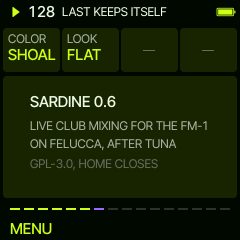
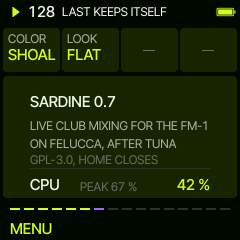
MENU: the CPU (the audio's load, its peak, voices shed), as Makohai's SETUP
Claude-Session: https://claude.ai/code/session_01VgesZgNNDFiPGvKyDTZVUK

Changed region(s): [[0.1167, 0.6417, 0.875, 0.8167], [0.3208, 0.7583, 0.5833, 0.8167], [0.4375, 0.3792, 0.4958, 0.4667]]

diff --git a/firmware/src/sa_ui.c b/firmware/src/sa_ui.c
@@ -909,11 +909,24 @@ static void sv_panel_sets(sa_ui *u)
 
 static void sv_panel_menu(sa_ui *u)
 {
-    (void)u;
     cv_text_on(30, 16, &AF_M, "SARDINE " SA_VERSION, T_TEXT, T_SURF);
     cv_text_on(30, 42, &AF_S, "LIVE CLUB MIXING FOR THE FM-1", T_MID, T_SURF);
     cv_text_on(30, 60, &AF_S, "ON FELUCCA, AFTER TUNA", T_MID, T_SURF);
-    cv_text_on(30, 80, &AF_S, "GPL-3.0, HOME CLOSES", T_DIM, T_SURF);
+    cv_text_on(30, 76, &AF_S, "GPL-3.0, HOME CLOSES", T_DIM, T_SURF);
+    {   /* the CPU: the audio's load, its average over a tenth of a second, and its worst since the start */
+        char t[24], a[8];
+        cv_rect(30, 92, 180, 1, T_LINE);
+        cv_text_on(30, 99, &AF_M, "CPU", T_TEXT, T_SURF);
+        sv_fmt_int(t, sv_clampi(u->cpu, 0, 100));
+        sv_cat(t, " %", sizeof t);
+        cv_text_r(210, 99, &AF_M, t, u->cpu >= 85 ? T_ACCENT : T_THEME, T_SURF);
+        sv_cpy(t, "PEAK ", sizeof t);
+        sv_fmt_int(a, sv_clampi(u->cpu_peak, 0, 999));
+        sv_cat(t, a, sizeof t);
+        sv_cat(t, " %", sizeof t);
+        if (u->shed) { sv_cat(t, ", SHED ", sizeof t); sv_fmt_int(a, u->shed); sv_cat(t, a, sizeof t); }
+        cv_text_on(80, 103, &AF_S, t, T_DIM, T_SURF);
+    }
 }
 
 /* the copy's bar of a layer, worked out again when it changed */

diff --git a/firmware/src/sa_fw.c b/firmware/src/sa_fw.c
@@ -617,6 +617,15 @@ static void sa_frame(void)
     song.playing = sa_g.playing;
     sa_leds();
     sa_u.batt = (int)batt_shown();
+    {   /* MENU's CPU: the audio's load (audio.c), read twice a second */
+        static uint32_t cpu_at;
+        if (now - cpu_at >= 500u) {
+            cpu_at = now;
+            sa_u.cpu = (int)(song.cpu_q8 * 100u / 256u);
+            sa_u.cpu_peak = (int)(audio_max_us * 100u / (HALF_FRAMES * 1000000u / FS));
+            sa_u.shed = (int)shed_count;
+        }
+    }
     sv_tick(&sa_u, dt > 100u ? 100 : (int)dt);
     if (first) {
         sv_draw_all(&sa_u);

diff --git a/firmware/src/sa_ui.h b/firmware/src/sa_ui.h
@@ -88,6 +88,7 @@ typedef struct {
     int key_sent[27];
     uint32_t frame;
     int batt;
+    int cpu, cpu_peak, shed;              /* MENU: the audio's load now (its average) and its worst, in %; voices shed */
     bool changed;                         /* a setting changed: the glue applies it (and keeps the look) */
     sv_set_info sets[SV_SLOTS];           /* what each set holds, and LAST (the glue fills it) */
     int set_slot, set_act;                /* SETS: the set picked, the action (SV_SA_*) */

diff --git a/tests/sa_ui_test.c b/tests/sa_ui_test.c
@@ -569,6 +569,8 @@ int main(int argc, char **argv)
     run_ms(700);
     sv_button(&ui, SV_B_HOME, false);
     CHECK(ui.page == SV_PG_MENU, "HOME held: MENU");
+    ui.cpu = 42;
+    ui.cpu_peak = 67;
     shot("20_menu");
     press(SV_B_HOME);
     press(SV_B_PLAY);

diff --git a/docs/MANUAL.md b/docs/MANUAL.md
@@ -265,7 +265,9 @@ delay. The room every layer plays in is a big hall; the drums send little into i
 <img src="screens/menu.png" alt="MENU" width="200">
 </p>
 
-HOME held: the colour (SHOAL by default, and Felucca's) and the look (FLAT, LINE).
+HOME held: the colour (SHOAL by default, and Felucca's) and the look (FLAT, LINE). Below them the **CPU**: the audio's load
+now (its average over a tenth of a second; above 85 % it turns the second colour), its PEAK since the start, and how
+many voices the load guard had to let go (SHED), if any.
 
 ## MIDI out
 
